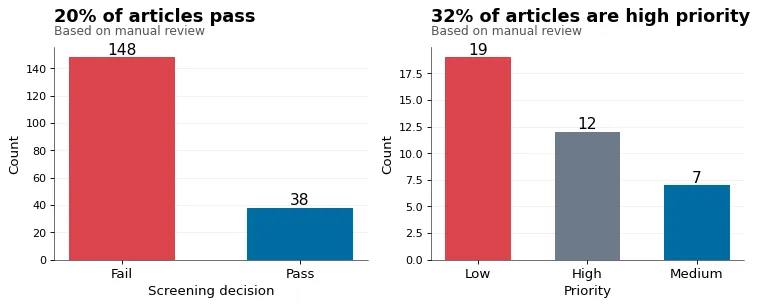
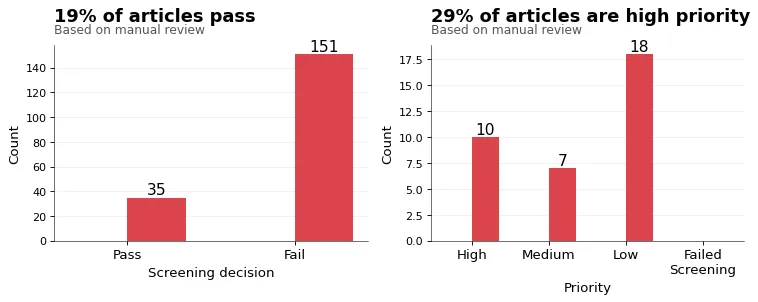
feat: added some plots

diff --git a/assets/python/2025-10-12-agentic-workflows/main.py b/assets/python/2025-10-12-agentic-workflows/main.py
@@ -161,8 +161,8 @@ priority_fields = ["doi", "my_screening", "my_priority"]
 json_fields = ["title", "url", "journal_name", "date", "access_date", "raw_contents"]
 
 priority2_fields = ["doi", "screening_decision", "priority_decision"]
-train_df[priority2_fields].to_csv("results/0_train_screen_priority.csv", index=False)
-test_df[priority2_fields].to_csv("results/0_test_screen_priority.csv", index=False)
+# train_df[priority2_fields].to_csv("results/0_train_screen_priority.csv", index=False)
+# test_df[priority2_fields].to_csv("results/0_test_screen_priority.csv", index=False)
 
 train_df[priority_fields].to_csv("train_articles.csv", index=False)
 json.dump(
@@ -194,6 +194,7 @@ cool_barplot(
     xlabel="Screening decision",
     palette=["#DB444B", "#006BA2"],
     ax=ax1,
+    values2=test_df["my_screening"],
 )
 
 perc_high = (
@@ -207,6 +208,7 @@ cool_barplot(
     subtitle="Based on manual review ",
     xlabel="Priority",
     ax=ax2,
+    values2=test_df[(test_df["my_screening"] == "Pass")]["my_priority"],
 )
 
 plt.tight_layout()

diff --git a/_posts/2025-10-12-agentic-workflows.md b/_posts/2025-10-12-agentic-workflows.md
@@ -101,7 +101,15 @@ Enough background, back to [`nf-papers-please`](https://github.com/hclimente/nf-
 
 {% details Materials & Methods %}
 
-During development, I worked on a toy dataset containing 249 articles published in [some of my favorite journals](https://github.com/hclimente/literature_agent/blob/main/config/journals.tsv) between the 25th of October and the 1st of November. I manually labelled each article, providing a label on whether it should pass the screening (pass/fail decision); and, for those that passed, a second label indicating how relevant it is to me (low/medium/high).
+During development, I worked on a toy dataset containing 249 articles published in [some of my favorite journals](https://github.com/hclimente/literature_agent/blob/main/config/journals.tsv) between the 25th of October and the 1st of November. I manually labelled each article in two passes:
+
+- A screening pass consisted on a quick, binary decision about the broad relevance of the article (pass/fail decision)
+- Those that passed the screening received a priority:
+    - High: articles directly linked to my current research interests
+    - Medium: articles related to my work, but not directly applicable
+    - Low: articles covering topics I care about, but not directly relevant to my work
+
+To this end, I used the same information `nf-papers-please` will have access to: the title, authors, journal and, usually, an abstract.
 
 <!--TODO show train & test distribution-->
 
